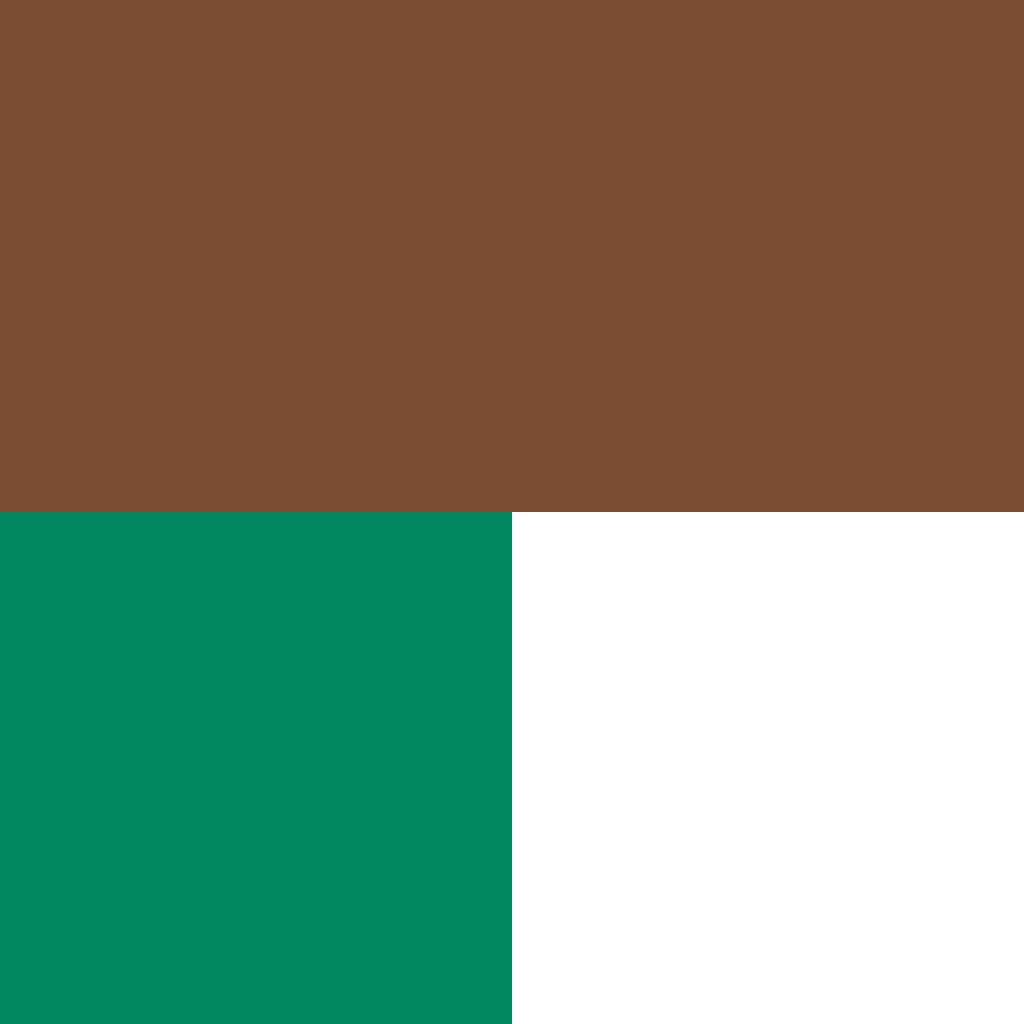
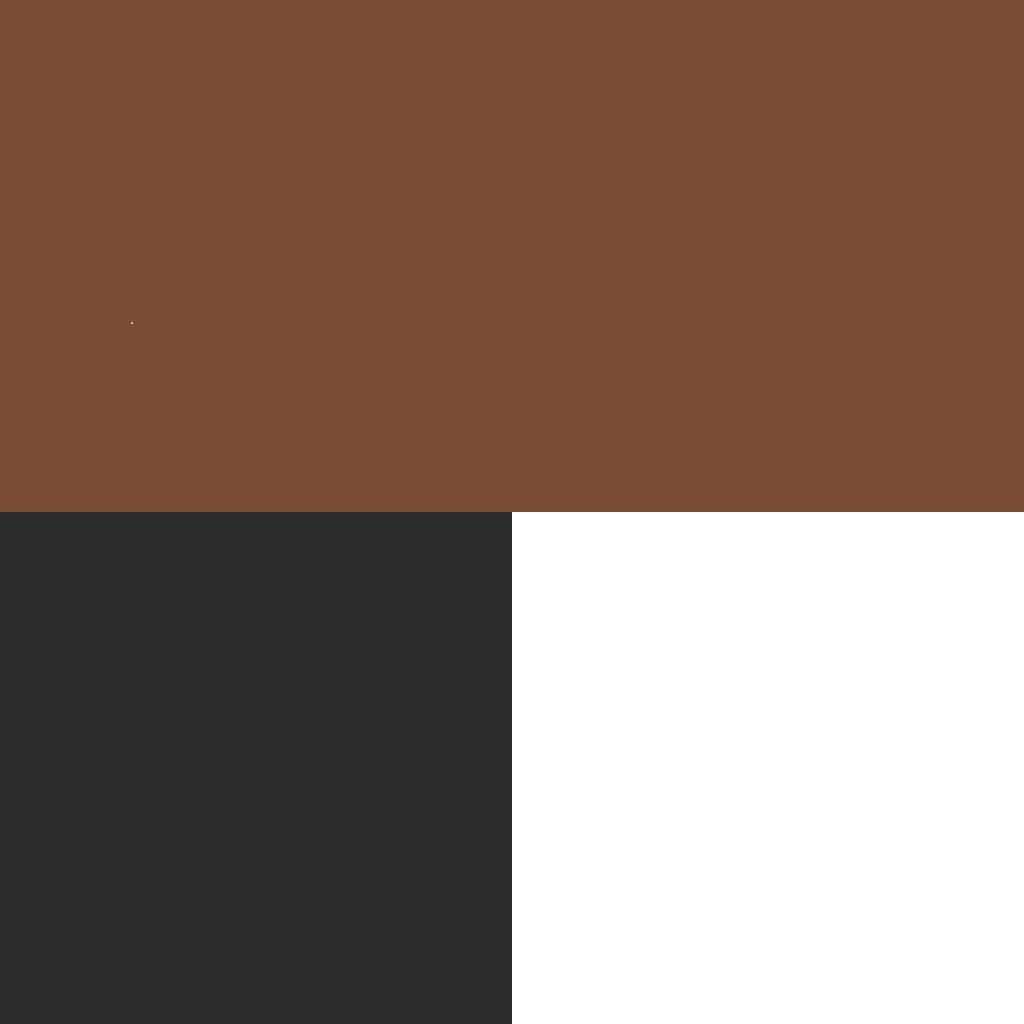
introduced anti-clumping mechanics into the AI. Recolored the monster team

Changed region(s): [[0.0, 0.5, 0.5, 1.0]]

diff --git a/Assets/Scripts/Entities/FighterController.cs b/Assets/Scripts/Entities/FighterController.cs
@@ -15,19 +15,24 @@ public abstract class FighterController : MonoBehaviour {
         set {
             if (value == fighterState) return;
 
+            print(gameObject.name + " " + value);
+
             if (value == State.Navigating) {
                 //navMeshAgent.updatePosition = true;
                 //navMeshAgent.updateRotation = true;
+                navMeshAgent.isStopped = false;
             }
             else if (value == State.Attacking) {
                 animator.SetBool("Moving", false);
-                nextAttackTime = Time.time + attackDelay;
+                navMeshAgent.velocity = Vector3.zero;
+                navMeshAgent.isStopped = true;
             }
 
             if (fighterState == State.Navigating) {
                 //navMeshAgent.updatePosition = false;
                 //navMeshAgent.updateRotation = false;
                 //manualVelocity = navMeshAgent.velocity;
+                navMeshAgent.isStopped = false;
             }
 
 
@@ -52,34 +57,51 @@ public abstract class FighterController : MonoBehaviour {
     /// the next time at which to attempt to acquire a new target
     /// </summary>
     float nextTargetAcquiusitionQuery;
+
+    Target currentTarget = null;
     /// <summary>
     /// our current target
     /// </summary>
-    Target currentTarget = null;
+    [HideInInspector]
+    public Target CurrentTarget {
+        get { return currentTarget; }
+        set {
+            if (currentTarget == value) return;
+            if (currentTarget != null) {
+                currentTarget.OnUnTargetted();
+            }
+
+            if (value != null) {
+                value.OnTargetted();
+            }
+
+            currentTarget = value;
+        }
+    }
     /// <summary>
     /// how interested our monster is in this target
     /// </summary>
     float currentInterestLevel = 0;
 
-    NavMeshAgent navMeshAgent;
+    protected NavMeshAgent navMeshAgent;
     CharacterController characterController;
 
     public Animator animator;
 
     // Start is called before the first frame update
-    void Awake() {
+    protected virtual void Awake() {
         navMeshAgent = GetComponent<NavMeshAgent>();
         characterController = GetComponent<CharacterController>();
         AcquireNewTarget();
     }
 
     public void OnEnterApproachRegion(Target target) {
-        if (target != currentTarget) return;
+        if (target != CurrentTarget) return;
 
         FighterState = State.Approaching;
     }
 
-    private void Update() {
+    protected virtual void Update() {
         
         // state machine
         if (FighterState == State.Navigating) {
@@ -101,18 +123,18 @@ public abstract class FighterController : MonoBehaviour {
         }
     }
     void DoStateNavigating() {
-        if (nextTargetAcquiusitionQuery < Time.time || currentTarget == null) {
+        if (nextTargetAcquiusitionQuery < Time.time || CurrentTarget == null) {
             AcquireNewTarget();
         }
 
-        if(currentTarget != null && GetDistanceToTarget() < approachRange) {
+        if(CurrentTarget != null && GetDistanceToTarget() < approachRange) {
             FighterState = State.Approaching;
         }
     }
     void DoStateApproaching() {
 
         // if our target is invalid 
-        if (currentTarget == null) {
+        if (CurrentTarget == null) {
 
             // go back to navigating
             FighterState = State.Navigating;
@@ -135,7 +157,7 @@ public abstract class FighterController : MonoBehaviour {
         DoManualVelocityAdjustment();
 
         // look at our target
-        AimTowards(currentTarget.transform.position);
+        AimTowards(CurrentTarget.transform.position);
 
         // move towards our target
         characterController.Move(manualVelocity * Time.deltaTime);
@@ -149,7 +171,7 @@ public abstract class FighterController : MonoBehaviour {
     void DoStateAttacking() {
 
         // if our target is invalid go back to navigating
-        if (currentTarget == null) {
+        if (CurrentTarget == null) {
             FighterState = State.Navigating;
             return;
         }
@@ -162,7 +184,7 @@ public abstract class FighterController : MonoBehaviour {
         }
 
         // look at our target
-        AimTowards(currentTarget.transform.position);
+        AimTowards(CurrentTarget.transform.position);
 
         // if we are too far from our target to attack,
         if (GetDistanceToTarget() > attackRange) {
@@ -176,10 +198,10 @@ public abstract class FighterController : MonoBehaviour {
         animator.SetTrigger("Attack");
         nextAttackTime = Time.time + attackDelay;
 
-        StartCoroutine(DealDamageDelayed(currentTarget, attackDamage, attackApplicationDelay));
+        StartCoroutine(DealDamageDelayed(CurrentTarget, attackDamage, attackApplicationDelay));
     }
     void DoManualVelocityAdjustment() {
-        Vector3 direction = (currentTarget.transform.position - transform.position).normalized;
+        Vector3 direction = (CurrentTarget.transform.position - transform.position).normalized;
 
         // accelerate towards our max velocity using the values in our navmeshagent
         manualVelocity = Vector3.MoveTowards(manualVelocity, direction * navMeshAgent.speed, navMeshAgent.acceleration * Time.deltaTime);
@@ -196,24 +218,25 @@ public abstract class FighterController : MonoBehaviour {
         nextTargetAcquiusitionQuery = Time.time + targetAcquisitionInterval;
 
         // if our current best target was destroyed, make sure we're looking for ANY replacement target
-        if (currentTarget == null) currentInterestLevel = 0;
+        if (CurrentTarget == null) currentInterestLevel = 0;
 
-        Target newTarget = FindTarget(currentTarget, currentInterestLevel);
+        Target newTarget = FindTarget(CurrentTarget, currentInterestLevel);
         if (newTarget != null) {
-            if (newTarget != currentTarget) {
+            if (newTarget != CurrentTarget) {
+
                 currentInterestLevel += newTarget.CalculateInterestLevel(transform.position);
-                currentTarget = newTarget;
+                CurrentTarget = newTarget;
             }
             
-            navMeshAgent.destination = currentTarget.transform.position;
+            navMeshAgent.destination = CurrentTarget.transform.position;
         }
     }
-    protected abstract Target FindTarget(Target currentTarget, float currentInterestLevel);
+    protected abstract Target FindTarget(Target CurrentTarget, float currentInterestLevel);
     void AimTowards(Vector3 targetPoint) {
         transform.rotation = Quaternion.LookRotation(targetPoint - transform.position, Vector3.up);
     }
     float GetDistanceToTarget() {
-        return Vector3.Distance(currentTarget.transform.position, transform.position);
+        return Vector3.Distance(CurrentTarget.transform.position, transform.position);
     }
 
     IEnumerator DealDamageDelayed(Target target, int Damage, float Delay) {

diff --git a/Assets/Scripts/Navigation/Target.cs b/Assets/Scripts/Navigation/Target.cs
@@ -18,7 +18,7 @@ public abstract class Target : MonoBehaviour
     /// <summary>
     /// the interest level this object has at its closest distance
     /// </summary>
-    public float MaximumInterest = 2;
+    public float MaximumInterest = 3;
 
     /// <summary>
     /// What multiplier to put on the entity's interest
@@ -46,5 +46,13 @@ public abstract class Target : MonoBehaviour
         Gizmos.color = Color.green;
         Mesh m = Resources.Load<Mesh>("Gizmos/circle");
         Gizmos.DrawWireMesh(m,transform.position,transform.rotation,Vector3.one * MaxDetectionRange);
+    }
+
+    public void OnTargetted() {
+        InterestMultiplier /= 2;
+    }
+
+    public void OnUnTargetted() {
+        InterestMultiplier *= 2;
     }
 }

diff --git a/Assets/Scripts/Entities/VillagerController.cs b/Assets/Scripts/Entities/VillagerController.cs
@@ -4,6 +4,22 @@ using UnityEngine;
 
 public class VillagerController : FighterController {
 
+    Vector3 home;
+
+    protected override void Awake() {
+        base.Awake();
+
+        home = transform.position;
+    }
+
+    protected override void Update() {
+        base.Update();
+
+        if(CurrentTarget == null) {
+            navMeshAgent.SetDestination(home);
+        }
+    }
+
     protected override Target FindTarget(Target currentTarget, float currentInterestLevel) {
         return TargetSystem.Instance.GetVillagerTarget(transform.position, currentTarget as VillagerTarget, currentInterestLevel);
     }
